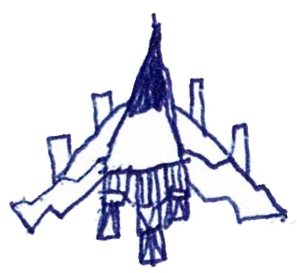
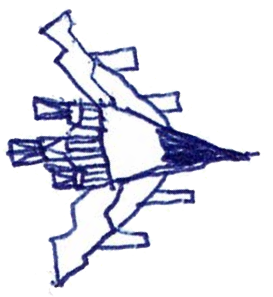
Asteroids added Ship can now be controlled

diff --git a/lib/asteroid.py b/lib/asteroid.py
@@ -1,0 +1,58 @@
+import random
+
+import pygame
+
+from lib.mobile import Mobile
+
+
+class Asteroid(Mobile):
+    random_angles = list(range(15, 80)) + list(range(115, 165)) + list(range(195, 255)) + list(range(290, 335))
+
+    def __init__(self, gameconfig, player_rect):
+        self.player_rect = player_rect
+        self.imagename = random.choice(["resources/asteroid1.png",
+                                        "resources/asteroid2.png",
+                                        "resources/asteroid3.png"])
+        self.scale = random.randint(gameconfig.asteroid_min_scale,
+                                    gameconfig.asteroid_max_scale)
+        super().__init__(gameconfig)
+        self.image = pygame.transform.rotate(self.image, self.get_random_angle())
+        self.speed = random.uniform(gameconfig.asteroid_min_speed,
+                                    gameconfig.asteroid_max_speed)
+
+    def get_random_angle(self, no_boring=False):
+        # We need to prevent boring angles like 0, 90, etc. @todo it's not working
+        if no_boring:
+            return random.choice(Asteroid.random_angles)
+        else:
+            return random.randint(0, 360)
+
+    def get_starting_pos(self):
+        # We need to get a location away from the player pos
+        start_point = self.player_rect.center
+
+        # Take a random angle point that way. Set this as the direction for our asteroid
+        angle = self.get_random_angle(no_boring=True)
+        self.angle = angle
+
+        # This code is not entirely correct if we are not in an exact square screen,
+        # but we need to find a nice distance away from the player and not go to far or we'll wrap
+        # around the screen and hit the player. We first need the smaller of width or height of the screen
+        max_distance = self.gameconfig.screen_width if self.gameconfig.screen_width < self.gameconfig.screen_height\
+            else self.gameconfig.screen_height
+
+        # Pick a random length
+        distance = random.randint(self.gameconfig.asteroid_spawn_distance,
+                                  max_distance - self.gameconfig.asteroid_spawn_distance)
+
+        # Calculate the point that far away from the player at the chosen angle
+        pos = pygame.math.Vector2()
+        pos.from_polar((distance, angle))
+        pos = start_point + pos
+
+        # Use the modulo operator to prevent being thrown out of the screen
+        pos = pos[0] % self.gameconfig.screen_width, pos[1] % self.gameconfig.screen_width
+        return pos
+
+    def update(self):
+        self.set_new_position()

diff --git a/lib/player.py b/lib/player.py
@@ -1,26 +1,54 @@
 import pygame
 
+from lib.mobile import Mobile
 
-class Player(pygame.sprite.Sprite):
+# Ready player one!
+class Player(Mobile):
     def __init__(self, gameconfig):
-        super().__init__()
-        self.gameconfig = gameconfig
-        unscaled_image = pygame.image.load("resources/player.png").convert_alpha()
-        self.image = pygame.transform.smoothscale(unscaled_image, (64, 64))
-        self.rect = self.image.get_rect(midbottom=self.get_starting_pos())
+        self.scale = gameconfig.player_image_scale
+        self.imagename = "resources/player.png"
+        super().__init__(gameconfig)
 
     def get_starting_pos(self):
         return self.gameconfig.screen_width / 2, self.gameconfig.screen_height / 2
 
-    def get_current_speed(self):
-        return self.gameconfig.player_speed
-
     def get_input(self):
         keys = pygame.key.get_pressed()
         if keys[pygame.K_RIGHT]:
-            self.rect.x += self.get_current_speed()
+            self.rotate_left(self.gameconfig.player_rotate_speed)
         elif keys[pygame.K_LEFT]:
-            self.rect.x -= self.get_current_speed()
+            self.rotate_right(self.gameconfig.player_rotate_speed)
+        if keys[pygame.K_UP]:
+            self.add_speed(self.gameconfig.player_speed)
+
+    def add_speed(self, speed):
+        self.speed += speed
+        if self.speed > self.gameconfig.player_max_speed:
+            self.speed = self.gameconfig.player_max_speed
 
     def update(self):
+        self.change_momentum()
         self.get_input()
+        self.set_new_position()
+
+    # https://stackoverflow.com/questions/4183208/how-do-i-rotate-an-image-around-its-center-using-pygame
+    def draw_extended(self, screen):
+        pos = (self.rect.x, self.rect.y)
+        # offset from pivot to center
+        image_rect = self.image.get_rect(center=(self.rect.x, self.rect.y))
+        offset_center_to_pivot = pygame.math.Vector2(pos) - image_rect.center
+
+        # rotated offset from pivot to center
+        rotated_offset = offset_center_to_pivot.rotate(self.angle * -1)
+
+        # rotated image center
+        rotated_image_center = (pos[0] - rotated_offset.x, pos[1] - rotated_offset.y)
+
+        # get a rotated image
+        rotated_image = pygame.transform.rotate(self.image, self.angle)
+        rotated_image_rect = rotated_image.get_rect(center=rotated_image_center)
+
+        # rotate and blit the image
+        screen.blit(rotated_image, rotated_image_rect)
+
+

diff --git a/lib/mobile.py b/lib/mobile.py
@@ -1,0 +1,58 @@
+import pygame
+
+
+class Mobile(pygame.sprite.Sprite):
+    imagename = None
+
+    def __init__(self, gameconfig):
+        super().__init__()
+        self.gameconfig = gameconfig
+        self.angle = 0
+        self.speed = 0
+        unscaled_image = pygame.image.load(self.imagename).convert_alpha()
+        self.image = pygame.transform.smoothscale(unscaled_image, (self.scale, self.scale))
+        self.rect = self.image.get_rect(center=self.get_starting_pos())
+
+    def set_new_position(self):
+        if self.speed > 0:
+            pos = self.rect.center
+            # https://stackoverflow.com/questions/46697502/how-to-move-a-sprite-according-to-an-angle-in-pygame
+            move_vec = pygame.math.Vector2()
+            move_vec.from_polar((self.speed, self.angle))
+            new_x = pos[0] + move_vec[0]
+            new_y = pos[1] - move_vec[1]
+            self.rect.center = self.get_boundary_correct_pos(new_x, new_y)
+
+    # This function takes your x and y and wraps those around the screen if required.
+    # I leave a ghost area of half the size of your ship outside of the game bounds
+    def get_boundary_correct_pos(self, x, y):
+        if x > (self.gameconfig.screen_width + self.rect.width / 2):
+            x = 0
+        elif x < 0:
+            x = self.gameconfig.screen_width
+        if y > (self.gameconfig.screen_height + self.rect.height / 2):
+            y = 0
+        elif y < 0:
+            y = self.gameconfig.screen_height
+        return round(x), round(y)
+
+    def get_starting_pos(self):
+        return 0, 0
+
+    def rotate_left(self, rotate_speed):
+        self.rotate(rotate_speed, False)
+
+    def rotate_right(self, rotate_speed):
+        self.rotate(rotate_speed, True)
+
+    def rotate(self, rotate_speed, rotate_right=False):
+        if rotate_right:
+            self.angle += (rotate_speed / 10)
+        else:
+            self.angle -= (rotate_speed / 10)
+        self.angle %= 360
+
+    def change_momentum(self):
+        self.speed = self.speed - self.gameconfig.momentum_loss
+        if self.speed < 0:
+            self.speed = 0

diff --git a/lib/gameconfig.py b/lib/gameconfig.py
@@ -3,9 +3,26 @@ from dataclasses import dataclass
 @dataclass
 class GameConfig:
     # Speed buildup for the player ship per frame
-    player_speed: int = 5
+    player_speed: float = 0.1
     # Max speed for the player ship per frame
-    player_max_speed: int = 30
-
+    player_max_speed: float = 10
+    # Player turn speed
+    player_rotate_speed: float = 20
+    # Momentum loss
+    momentum_loss: float = 0.05
+    # Player image scale factor
+    player_image_scale: int = 30
+    # Asteroid minimal speed at zero level
+    asteroid_min_speed: float = 0.6
+    # Asteroid max speed at zero level
+    asteroid_max_speed: float = 1.5
+    # Asteroid minimal speed at zero level
+    asteroid_min_scale: float = 70
+    # Asteroid max speed at zero level
+    asteroid_max_scale: float = 100
+    # Asteroid minimum spawn distance from player
+    asteroid_spawn_distance: int = 50
+    # Asteroids spawning in level 1
+    asteroids_level_1: int = 2
     screen_width: int = 600
     screen_height: int = 600

diff --git a/lib/asteracoidsgame.py b/lib/asteracoidsgame.py
@@ -1,17 +1,21 @@
 import pygame
 
+from lib.asteroid import Asteroid
 from lib.player import Player
-
 
 class AsteracoidsGame:
     def __init__(self, gameconfig):
         self.gameconfig = gameconfig
         player_sprite = Player(self.gameconfig)
         self.player = pygame.sprite.GroupSingle(player_sprite)
+        self.asteroids = pygame.sprite.Group()
+        for numb in range(self.gameconfig.asteroids_level_1):
+            self.asteroids.add(Asteroid(self.gameconfig, self.player.sprite.rect))
 
     def updates(self):
+        self.asteroids.update()
         self.player.update()
 
-
     def draws(self, screen):
-        self.player.draw(screen)
+        self.asteroids.draw(screen)
+        self.player.sprite.draw_extended(screen)

diff --git a/lib/gamesetup.py b/lib/gamesetup.py
@@ -3,7 +3,6 @@ import sys
 import pygame
 
 from lib.asteracoidsgame import AsteracoidsGame
-from lib.gameconfig import GameConfig
 
 
 # Game setup class handles all meta stuff like the canvas etc
